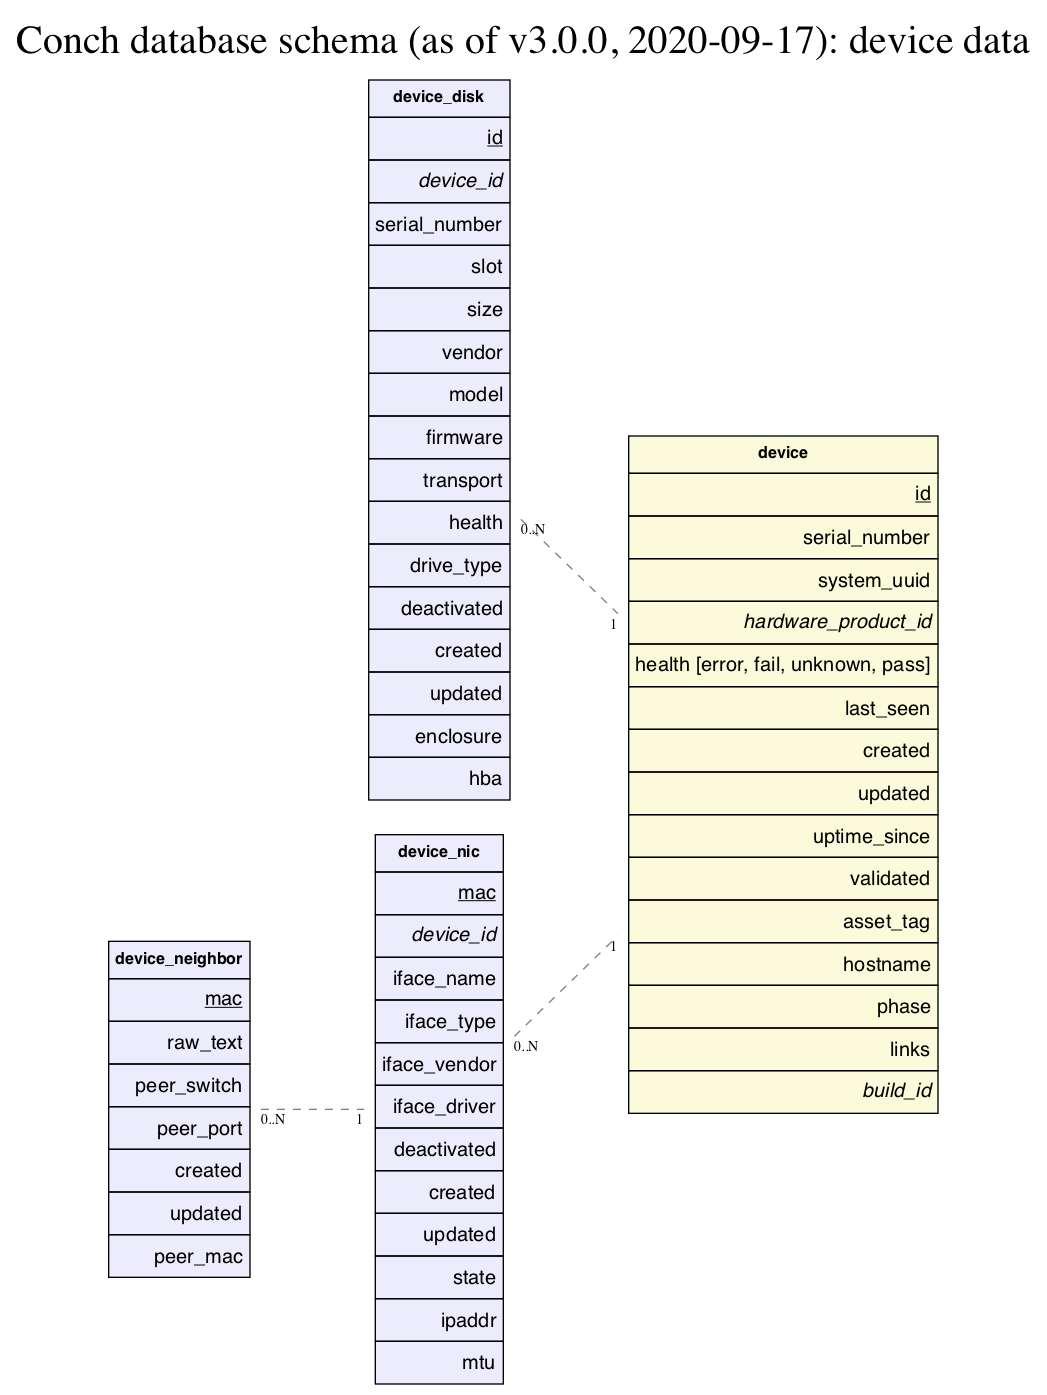
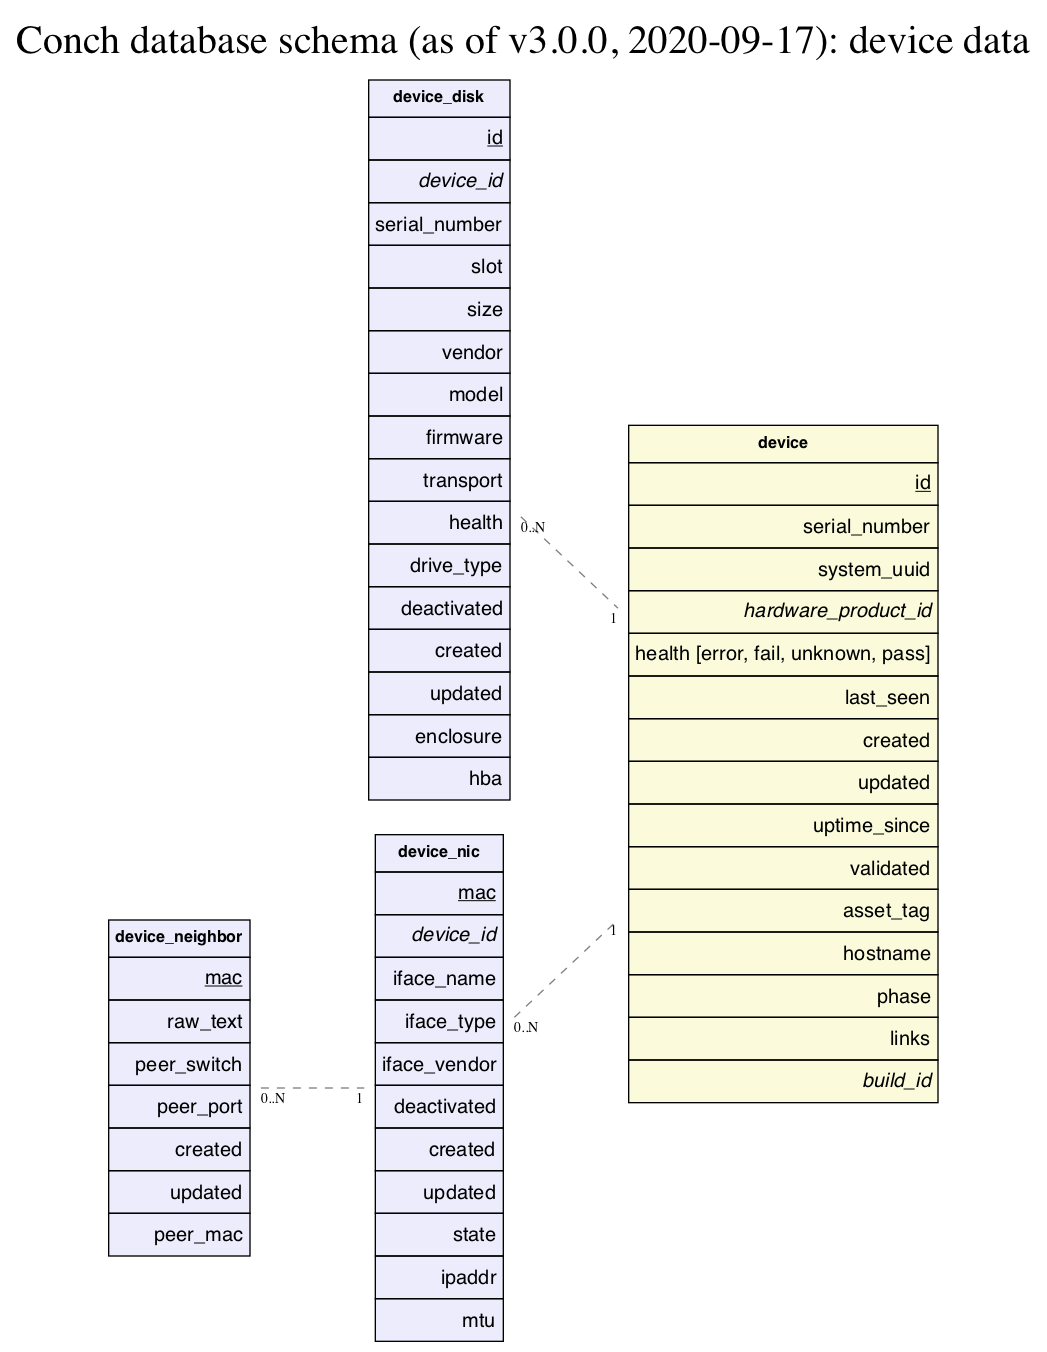
drop unused column device_nic.iface_driver

diff --git a/docs/modules/Conch::DB::Result::DeviceNic.md b/docs/modules/Conch::DB::Result::DeviceNic.md
@@ -38,13 +38,6 @@ data_type: 'text'
 is_nullable: 0
 ```
 
-### iface\_driver
-
-```
-data_type: 'text'
-is_nullable: 1
-```
-
 ### deactivated
 
 ```
